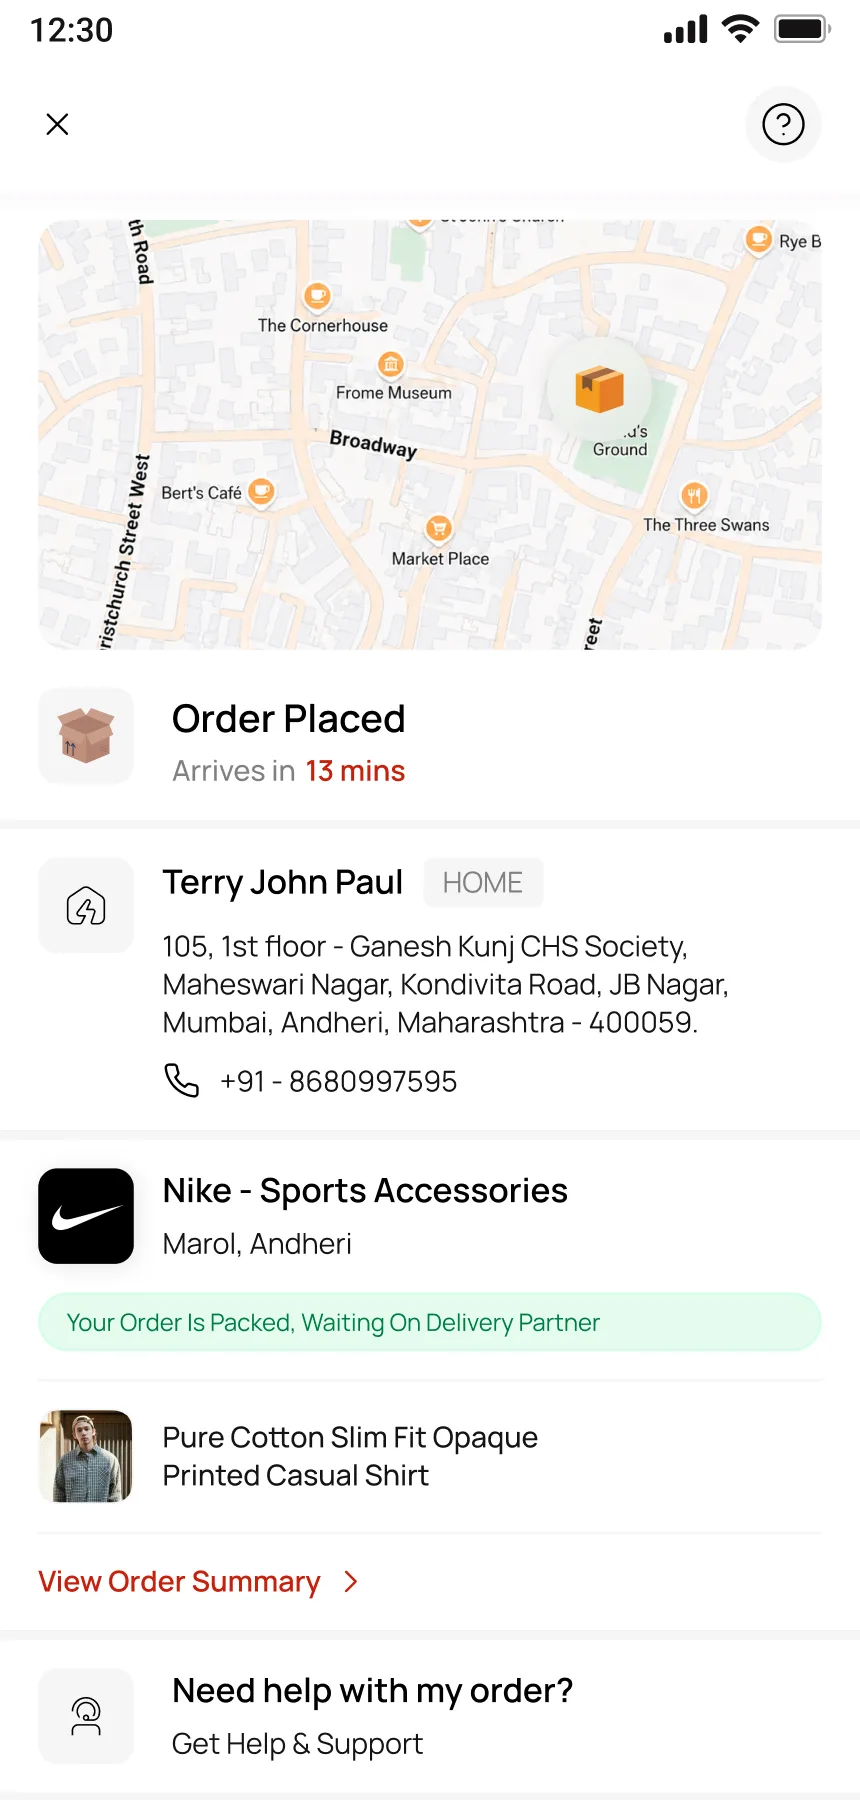
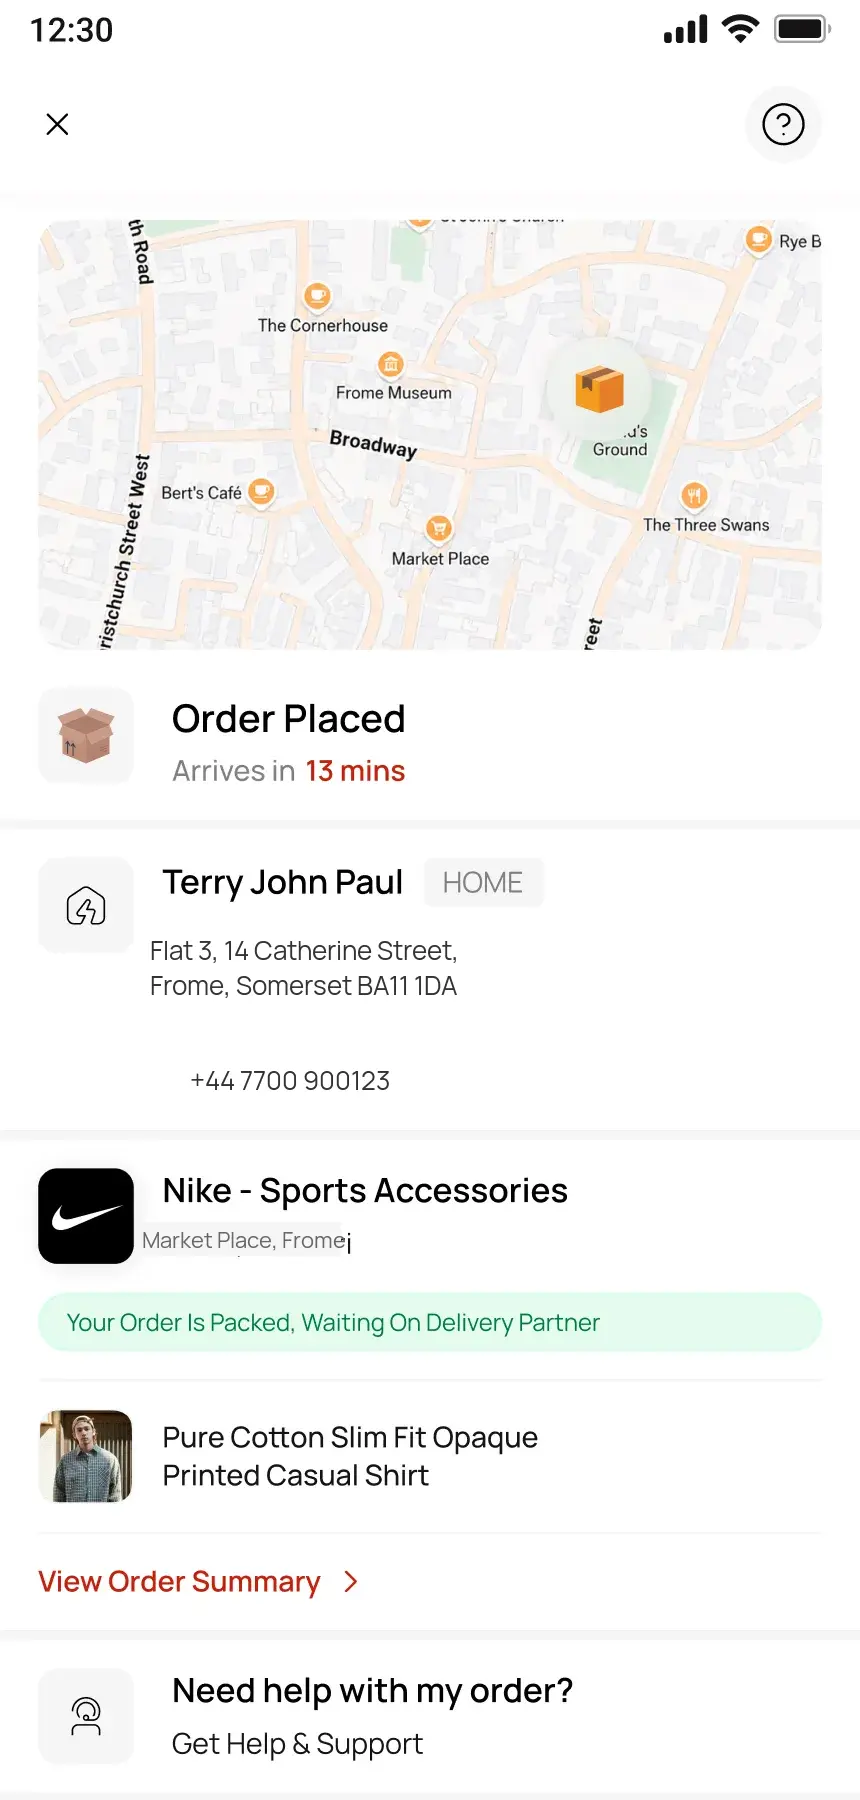
fix: localise 3 screenshots for UK market
- checkout-payment: Pay ₹890 → Pay £68.00, Ashutosh Navkar → Terry John
- checkout-cart-full: Mumbai address → Frome, Somerset UK, +91 → +44
- widget-score: "Only on bharat app" → "Only on Sorted"

Updated assets uploaded to R2 CDN and verified HTTP 200.

Changed region(s): [[0.1814, 0.4978, 0.8465, 0.6222], [0.1814, 0.6844, 0.393, 0.7156]]

diff --git a/bharat-app/v2.html b/bharat-app/v2.html
@@ -11,23 +11,23 @@
   <meta property="og:title" content="Sorted — AI Platform Design Case Study | Terry John Paul">
   <meta property="og:description" content="AI-powered platform concept exploring cross-domain commerce, conversational AI, and shared checkout. 44 screens across 9 modules.">
   <meta property="og:url" content="https://terryjohn.me/sorted/">
-  <meta property="og:image" content="https://terryjohn.me/assets/sw/sorted.webp">
-  <meta property="og:image:width" content="1200">
-  <meta property="og:image:height" content="630">
-  <meta property="og:image:alt" content="Sorted — AI-powered super app concept">
+  <meta property="og:image" content="https://pub-d98009c8eb7448a387f7f2d0a543ab76.r2.dev/sorted/sorted-casestudy.webp">
+  <meta property="og:image:width" content="4500">
+  <meta property="og:image:height" content="3000">
+  <meta property="og:image:alt" content="Sorted AI platform case study — mobile product screens across commerce, food, search, and AI chat">
   <meta property="og:locale" content="en_GB">
   <meta property="og:site_name" content="Terry John Paul">
   <meta name="twitter:card" content="summary_large_image">
   <meta name="twitter:title" content="Sorted — AI Platform Design Case Study | Terry John Paul">
   <meta name="twitter:description" content="AI-powered platform concept: cross-domain commerce, conversational AI, shared checkout. 44 screens across 9 modules.">
-  <meta name="twitter:image" content="https://terryjohn.me/assets/sw/sorted.webp">
-  <meta name="twitter:image:alt" content="Sorted — AI-powered super app concept">
+  <meta name="twitter:image" content="https://pub-d98009c8eb7448a387f7f2d0a543ab76.r2.dev/sorted/sorted-casestudy.webp">
+  <meta name="twitter:image:alt" content="Sorted AI platform case study — mobile product screens across commerce, food, search, and AI chat">
   <link rel="icon" type="image/x-icon" href="../favicon.ico">
   <link rel="preload" as="font" type="font/woff2" crossorigin href="/fonts/HelveticaNowDisplay-Regular.woff2">
   <link rel="preload" as="font" type="font/woff2" crossorigin href="/fonts/HelveticaNowDisplay-Medium.woff2">
   <link rel="stylesheet" href="../pixelbin/css/base.css">
   <link rel="stylesheet" href="../pixelbin/css/chapter1.css">
-  <script type="application/ld+json">{"@context":"https://schema.org","@type":"CreativeWork","@id":"https://terryjohn.me/sorted/","name":"Sorted — AI Platform Design Case Study","headline":"Could AI Make a Super App Work?","author":{"@type":"Person","@id":"https://terryjohn.me/#person","name":"Terry John Paul","url":"https://terryjohn.me","jobTitle":"Senior Product Designer"},"description":"AI-powered platform concept exploring cross-domain commerce, conversational AI, and shared checkout. 44 screens across 9 modules. Case study by Terry John Paul.","url":"https://terryjohn.me/sorted/","image":"https://terryjohn.me/assets/sw/sorted.webp","inLanguage":"en-GB","keywords":["AI Product Design","Platform Design","Cross-Domain UX","Conversational AI","Mobile Product Design","Commerce UX","Product Design Case Study","Senior Product Designer Portfolio"],"about":[{"@type":"Thing","name":"AI Product Design"},{"@type":"Thing","name":"Platform Architecture"},{"@type":"Thing","name":"Cross-Domain Commerce"},{"@type":"Thing","name":"Conversational AI UX"}]}</script>
+  <script type="application/ld+json">{"@context":"https://schema.org","@type":"CreativeWork","@id":"https://terryjohn.me/sorted/","name":"Sorted — AI Platform Design Case Study","headline":"Could AI Make a Super App Work?","author":{"@type":"Person","@id":"https://terryjohn.me/#person","name":"Terry John Paul","url":"https://terryjohn.me","jobTitle":"Senior Product Designer"},"description":"AI-powered platform concept exploring cross-domain commerce, conversational AI, and shared checkout. 44 screens across 9 modules. Case study by Terry John Paul.","url":"https://terryjohn.me/sorted/","image":"https://pub-d98009c8eb7448a387f7f2d0a543ab76.r2.dev/sorted/sorted-casestudy.webp","inLanguage":"en-GB","keywords":["AI Product Design","Platform Design","Cross-Domain UX","Conversational AI","Mobile Product Design","Commerce UX","Product Design Case Study","Senior Product Designer Portfolio"],"about":[{"@type":"Thing","name":"AI Product Design"},{"@type":"Thing","name":"Platform Architecture"},{"@type":"Thing","name":"Cross-Domain Commerce"},{"@type":"Thing","name":"Conversational AI UX"}]}</script>
   <style>
     :root { --frost: #ffffff; }
     .sr-only { position: absolute; width: 1px; height: 1px; padding: 0; margin: -1px; overflow: hidden; clip: rect(0, 0, 0, 0); white-space: nowrap; border: 0; }
